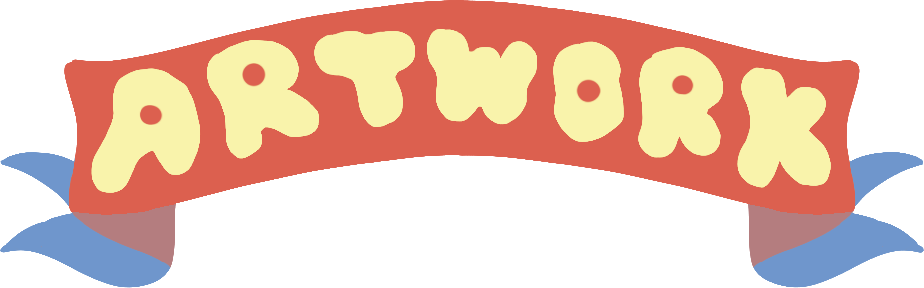
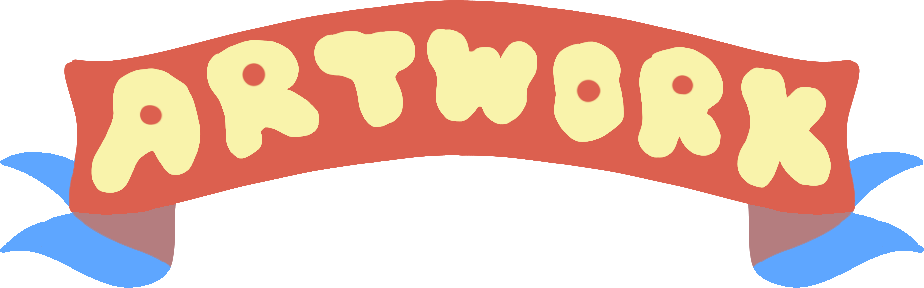
Update3

Changed region(s): [[0.8182, 0.5312, 1.0, 1.0], [0.0, 0.5312, 0.1818, 1.0]]

diff --git a/css/style.css b/css/style.css
@@ -42,7 +42,7 @@ body {
     padding: 5px 36px;
 }
 #ts-navbar-bottom {
-    background-color: #6f96cc;
+    background-color: #5ea6ff;
     display: flex;
     justify-content: center;
 }
@@ -94,7 +94,7 @@ body {
     ;
 }
 #homepage a img:active {
-    transform:translateY(-500px);
+    transform:translateY(-530px);
     transition: 
         transform .5s
     ;
@@ -102,6 +102,23 @@ body {
 #homepage marquee {
     color:#dc604f;
     margin: 5px;
+}
+#homepage h1 {
+    color: #5ea6ff;
+}
+#homepage #shopstatus h1 {
+    color: #dc604f
+}
+#homepage #shopstatus .shopimage img{
+    width: 35vw;
+    padding: 20px;
+}
+#homepage #shopstatus {
+    margin: 40px;
+    display: flex;
+    justify-content: center;
+    align-items: center;
+    border: 10px dotted #5ea6ff
 }
 /*TOS*/
 #layout {
@@ -124,7 +141,7 @@ body {
 }
 /*ARTWORK*/
 #artwork {
-    width: 50vw;
+    width: 40vw;
     display: flex;
     flex-direction: column;
     margin-left: auto;
@@ -143,10 +160,11 @@ body {
 }
 #images #who {
     width: 45vw;
+    padding-bottom: 180px;
 }
 #images .art {
     padding: 30px;
-    width: 40%;
+    width: 30%;
     height: 100%;
     object-fit: contain;
 }

diff --git a/artwork.html b/artwork.html
@@ -31,19 +31,20 @@
             <div id="images">
                 <div class="cropped-grid-gallery">
                     <img class="art" src="images/design.png" alt="design">
-                    <img 
-                        class="art" 
-                        id="ramune" 
-                        src="images/ramune.png" 
-                        alt="ramune"
-                    >
-                    <img class="art" src="images/design3.png" alt="design">
                     <img class="art" src="images/design4.png" alt="design">
+                    <img class="art" src="images/design3.png" alt="design">
+                    <img class="art" src="images/design2.png" alt="design">
                     <img 
                         class="art" 
                         id="who"
                         src="images/design5.png" 
                         alt="design"
+                    >
+                    <img 
+                        class="art" 
+                        id="ramune" 
+                        src="images/ramune.png" 
+                        alt="ramune"
                     >
                 </div>
             </div>

diff --git a/index.html b/index.html
@@ -39,12 +39,25 @@
                 src="images/welcome.png" 
                 alt="ribbon"
             >
-            <marquee>use discount code NEWBEARNEWME for 10% off</marquee>
+            <marquee>
+                use discount code NEWBEARNEWME for 10% off
+            </marquee>
             <p>This website is for showcase purposes only</p>
-            <p>Make purchases here!</p>
             <a href="https://ramunebearshop.onlineweb.shop/">
                 <img src="images/ramune.png" alt="linkimg">
             </a>
+            <p>▲Make purchases here▲</p>
+            <h1>Keep an eye out for discount codes!!</h1>
+            <div id="shopstatus">
+                <div class="shopimage">
+                    <img src="images/CLOSED.png">
+                </div>
+                <div class="shopstatus">
+                    <h1>Shop Status</h1>
+                    <h2>Currently under construction</h2>
+                    <p>restocking items</p>
+                </div>
+            </div>
         </div>
     </body>
 </html>

diff --git a/socials.html b/socials.html
@@ -37,6 +37,9 @@
                 <a href="https://www.instagram.com/ramunebearshop/">
                     <img src="images/igicon.png">
                 </a>
+                <a href="https://soundcloud.com/ramunebear">
+                    <img src="images/scicon.png">
+                </a>
             </div>
         </div>
     </body>
